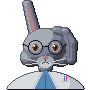
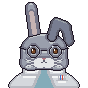
Intro: portrety od nowa w stylu pixelartowych królików, czyste obrysy
- Portrety z masek: każda część wygładzona osobno, lustro względem osi, płaskie pasma,
  jednolity obrys 1 px (także między uszami, głową i tułowiem); głowa siedzi na ramionach
- Maciej: drugie ucho złamane (wstaje i opada na bok), okulary jako okręgi 1 px
- Obserwatorium i postacie od tyłu: sylwetka wygładzona przed obrysem (bez ząbków)

Claude-Session: https://claude.ai/code/session_01AApWJ5vAAocyN6ZrWVUcqc

diff --git a/tools/art/portraits.js b/tools/art/portraits.js
@@ -1,87 +1,147 @@
-// Portrety do okienek dialogu (88x88, przezroczyste tło), rysowane od zera pixel artem.
-// Zdjęcia autora służą tylko za wzór: kolory, proporcje (duża okrągła głowa, puszyste policzki, jasna obwódka oka).
-// Maciej: srebrzysty, lewe ucho stoi, prawe opada wzdłuż policzka, brązowe oczy, okrągłe okulary, biały kitel.
-// Jania (dziecko, mniejsza w kadrze): ruda, kremowy pyszczek, oba uszy w górę, dwa siekacze, dżinsowe ogrodniczki.
+// Portrety do okienek dialogu (88x88, przezroczyste tło), pixel art od zera.
+// Zasady z referencji autora (pixelartowe króliki): czysty 1 px ciemny obrys bez ząbków, głowa szeroka i zaokrąglona,
+// policzki rozszerzają ją u dołu, głowa siedzi wprost na ramionach (bez szyi), uszy jak zaokrąglone prostokąty
+// z jaśniejszym środkiem, duże proste oczy z białym odblaskiem, jasny pyszczek, mały nosek, płaskie 2–3 tony na
+// materiał, światło z góry (cieniowanie symetryczne). Kształty z masek (każda część wygładzona osobno),
+// lustrzane względem środka; wyjątki to celowo asymetryczne opadnięte ucho Macieja i długopisy w kieszeni.
 const P = require(process.env.CODIXEL);
 const OUT = process.argv[2] || ".";
-const L = { light: [-0.5, -0.62, 0.6] };  // jedno światło z lewej u góry
-const INK = [24, 20, 32];
-const ramp = (n, o) => P.hueRamp(n, o);
-const S = (b, prims, r, o = {}) => P.solid(b, prims, r, { ...L, ...o });
-const E = P.ell, C = P.cap;
-const fillEll = (b, cx, cy, rx, ry, c) => { for (let y = Math.floor(cy - ry); y <= cy + ry; y++) for (let x = Math.floor(cx - rx); x <= cx + rx; x++) if (((x - cx) / rx) ** 2 + ((y - cy) / ry) ** 2 <= 1) b.pset(x, y, c); };
-const line = (b, ax, ay, bx, by, c) => { const n = Math.max(Math.abs(bx - ax), Math.abs(by - ay)); for (let i = 0; i <= n; i++) b.pset(Math.round(ax + (bx - ax) * i / n), Math.round(ay + (by - ay) * i / n), c); };
+const W = 88, H = 88, CX = 44;           // oś symetrii między pikselem 43 i 44
+const INK = [30, 22, 36];
 
-// oko: obwódka (jasna sierść), tęczówka, źrenica, dwa odblaski
-function eye(b, x, y, iris, ring) {
-  fillEll(b, x, y, 4.2, 4.8, ring);
-  fillEll(b, x, y, 3, 3.6, iris[1]);
-  fillEll(b, x, y + 0.6, 2, 2.6, iris[0]);
-  b.pset(x - 1, y - 2, [250, 246, 238]); b.pset(x - 2, y - 2, [250, 246, 238]); b.pset(x - 1, y - 1, [250, 246, 238]);
-  b.pset(x + 1, y + 2, iris[2]);
+class Canvas {
+  constructor() { this.part = new Array(W * H).fill(null); this.col = new Array(W * H).fill(null); this.parts = {}; }
+  // kształt z funkcji (środki pikseli), maska wygładzona osobno; mirror = lustro względem osi
+  add(name, inside, ramp, o = {}) {
+    let m = new Uint8Array(W * H);
+    for (let y = 0; y < H; y++) for (let x = 0; x < W; x++) {
+      const px = x + 0.5, py = y + 0.5;
+      if (inside(px, py) || (o.mirror && inside(2 * CX - px, py))) m[y * W + x] = 1;
+    }
+    if (!o.raw) m = P.smoothMask(m, W, H);
+    for (let i = 0; i < W * H; i++) if (m[i]) { this.part[i] = name; this.col[i] = null; }
+    this.parts[name] = { ramp, group: o.group || name, flat: o.flat };
+  }
+  set(x, y, c, name = "_") { if (x >= 0 && y >= 0 && x < W && y < H) { this.part[y * W + x] = name; this.col[y * W + x] = c; } }
+  render() {
+    const b = new P.Buf(W, H), at = (x, y) => (x < 0 || y < 0 || x >= W || y >= H ? null : this.part[y * W + x]);
+    const grp = (n) => (n === null ? null : (this.parts[n] || { group: n }).group);
+    for (let y = 0; y < H; y++) for (let x = 0; x < W; x++) {
+      const n = at(x, y); if (n === null) continue;
+      if (this.col[y * W + x]) { b.pset(x, y, this.col[y * W + x]); continue; }
+      const p = this.parts[n], r = p.ramp;
+      let k = 1;  // płaskie pasma: cień u dołu i po bokach (2 px), blask u góry (2 px)
+      if (!p.flat) {
+        const out = (dx, dy) => at(x + dx, y + dy) !== n;
+        if (out(0, 2) || out(0, 1) || out(-2, 0) || out(2, 0)) k = 0;
+        else if ((out(0, -2) || out(0, -1)) && r.length > 2) k = 2;
+      }
+      b.pset(x, y, r[Math.min(k, r.length - 1)]);
+    }
+    // obrys: zewnętrzny 1 px (4-sąsiedztwo) + wewnętrzny między grupami (uszy/głowa/tułów)
+    const ink = new Uint8Array(W * H);
+    for (let y = 0; y < H; y++) for (let x = 0; x < W; x++) {
+      const n = at(x, y), g = grp(n);
+      if (n === null) { if ([[1, 0], [-1, 0], [0, 1], [0, -1]].some(([dx, dy]) => at(x + dx, y + dy) !== null)) ink[y * W + x] = 1; continue; }
+      if ((this.parts[n] || {}).line === false) continue;
+      for (const [dx, dy] of [[0, 1], [1, 0], [-1, 0], [0, -1]]) {
+        const m = at(x + dx, y + dy), gm = grp(m);
+        if (m !== null && gm !== g && this.front(g, gm)) { ink[y * W + x] = 1; break; }
+      }
+    }
+    for (let i = 0; i < W * H; i++) if (ink[i]) b.px[i] = P.col(INK);
+    return b;
+  }
+}
+// kolejność warstw grup: obrys wewnętrzny rysuje część z przodu
+const ORDER = ["body", "ears", "head", "lop"];
+Canvas.prototype.front = function (a, b) { return ORDER.indexOf(a) > ORDER.indexOf(b) && ORDER.indexOf(b) >= 0; };
+
+const ell = (cx, cy, rx, ry) => (x, y) => ((x - cx) / rx) ** 2 + ((y - cy) / ry) ** 2 <= 1;
+const sup = (cx, cy, rx, ry, e = 2.6) => (x, y) => Math.abs((x - cx) / rx) ** e + Math.abs((y - cy) / ry) ** e <= 1; // zaokrąglony prostokąt
+const cap = (ax, ay, bx, by, r) => (x, y) => { const vx = bx - ax, vy = by - ay, t = Math.max(0, Math.min(1, ((x - ax) * vx + (y - ay) * vy) / (vx * vx + vy * vy))); return (x - ax - t * vx) ** 2 + (y - ay - t * vy) ** 2 <= r * r; };
+const or = (...f) => (x, y) => f.some((g) => g(x, y));
+const and = (...f) => (x, y) => f.every((g) => g(x, y));
+const ramp = (n, o) => P.hueRamp(n, o);
+
+// oko: ciemny owal z białym odblaskiem (lustrzane pary rysuje wywołujący)
+function eye(c, ex, ey, w, h, dark, iris) {
+  for (let y = 0; y < h; y++) for (let x = 0; x < w; x++) {
+    const corner = (x === 0 || x === w - 1) && (y === 0 || y === h - 1);
+    if (!corner) c.set(ex + x, ey + y, iris && y > 0 && y < h - 1 && x > 0 && x < w - 1 && y >= h / 2 - 1 ? iris : dark);
+  }
+  c.set(ex + 1, ey + 1, [255, 252, 244]); c.set(ex + 1, ey + 2, [255, 252, 244]);
+}
+const mir = (x) => 2 * CX - 1 - x;
+// okrąg 1 px (algorytm punktu środkowego): czysta obręcz bez podwójnych pikseli
+function ring(c, cx, cy, r, col) {
+  let x = r, y = 0, e = 1 - r;
+  while (x >= y) {
+    for (const [a, b] of [[x, y], [y, x], [-y, x], [-x, y], [-x, -y], [-y, -x], [y, -x], [x, -y]]) c.set(cx + a, cy + b, col);
+    y++; if (e < 0) e += 2 * y + 1; else { x--; e += 2 * (y - x) + 1; }
+  }
 }
 
 function maciej() {
-  const b = new P.Buf(88, 88);
-  const fur = ramp(5, { hue: 224, shift: 26, sat: 0.1, light: [0.28, 0.8] });
-  const coat = ramp(4, { hue: 212, shift: 18, sat: 0.12, light: [0.66, 0.96] });
-  const shirt = ramp(3, { hue: 208, shift: 18, sat: 0.4, light: [0.4, 0.64] });
-  const inner = ramp(3, { hue: 350, shift: 16, sat: 0.18, light: [0.5, 0.7] });
-  const iris = [[46, 24, 16], [118, 70, 38], [170, 112, 64]];
-  S(b, [E(44, 66, 7, 5)], fur);                                               // krótka szyja
-  S(b, [E(44, 98, 42, 28)], coat);                                            // kitel: szerokie ramiona tuż pod głową
-  for (let y = 70; y < 88; y++) { const d = (y - 70) >> 1; for (let x = 44 - d - 2; x <= 44 + d + 2; x++) b.pset(x, y, shirt[1]); }
-  for (let y = 70; y < 88; y++) { const d = (y - 70) >> 1; b.pset(42 - d - 2, y, coat[1]); b.pset(46 + d + 2, y, coat[1]); } // klapy
-  for (let y = 74; y < 88; y++) b.pset(44, y, shirt[0]);                        // guziki koszuli w linii
-  for (let x = 60; x < 68; x++) b.pset(x, 80, coat[1]);                         // kieszeń na piersi
-  for (let y = 75; y < 80; y++) { b.pset(63, y, [70, 110, 200]); b.pset(65, y, [210, 70, 60]); } // długopisy
-  S(b, [C(33, 30, 26, 2, 5.6, 4.4)], fur);                                    // ucho stoi
-  S(b, [C(32.6, 28, 26.6, 6, 2.6, 2)], inner);
-  S(b, [E(44, 46, 22, 19), E(29, 56, 10, 8.5), E(59, 56, 10, 8.5)], fur);     // głowa z puszystymi policzkami
-  S(b, [C(54, 29, 64, 31, 3.6, 4.6), C(64, 31, 70, 42, 4.6, 5.4), C(70, 42, 70, 58, 5.4, 4.6)], fur, { dark: 0.85 }); // ucho opada wzdłuż policzka
-  line(b, 59, 30, 66, 34, fur[1]); line(b, 66, 34, 68, 43, fur[1]); line(b, 68, 43, 68, 56, fur[1]); // fałda ucha
-  fillEll(b, 44, 60, 9, 6, fur[3]);                                           // jaśniejszy pyszczek
-  fillEll(b, 44, 63, 6, 3.4, fur[4]);
-  eye(b, 34, 46, iris, fur[3]); eye(b, 54, 46, iris, fur[3]);
-  for (const [x, y] of [[34, 46], [54, 46]])                                  // okrągłe okulary
-    for (let a = 0; a < 80; a++) b.pset(Math.round(x + Math.cos(a / 80 * 6.283) * 7), Math.round(y + Math.sin(a / 80 * 6.283) * 7), INK);
-  line(b, 41, 45, 47, 45, INK);                                               // mostek
-  line(b, 27, 45, 22, 43, INK); line(b, 61, 45, 65, 43, INK);                 // zauszniki
-  b.pset(31, 41, [236, 244, 255]); b.pset(51, 41, [236, 244, 255]);            // błysk na szkle
-  fillEll(b, 44, 56, 2.6, 1.6, [168, 120, 130]); b.pset(43, 55, [206, 160, 168]); // nos
-  line(b, 44, 58, 44, 60, fur[0]); line(b, 44, 60, 41, 62, fur[0]); line(b, 44, 60, 47, 62, fur[0]); // pyszczek Y
-  for (const s of [-1, 1]) { line(b, 44 + s * 8, 60, 44 + s * 20, 57, fur[4]); line(b, 44 + s * 8, 62, 44 + s * 20, 63, fur[4]); } // wąsy
-  return P.selout(b, fur[1], INK);
+  const c = new Canvas();
+  const fur = ramp(3, { hue: 224, shift: 22, sat: 0.1, light: [0.5, 0.78] });
+  const furD = ramp(3, { hue: 228, shift: 20, sat: 0.1, light: [0.4, 0.64] });
+  const light = ramp(2, { hue: 220, shift: 12, sat: 0.08, light: [0.8, 0.9] });
+  const coat = ramp(3, { hue: 212, shift: 16, sat: 0.1, light: [0.74, 0.96] });
+  const shirt = ramp(2, { hue: 208, shift: 14, sat: 0.42, light: [0.46, 0.62] });
+  const pinkE = ramp(2, { hue: 352, shift: 10, sat: 0.22, light: [0.62, 0.74] });
+  c.add("coat", sup(CX, 97, 38, 28, 2.2), coat, { group: "body" });
+  c.add("collar", (x, y) => y > 67 && y < 76 && Math.abs(x - CX) < 21, coat, { group: "body", raw: true }); // ramiona tuż pod policzkami
+  c.add("shirt", (x, y) => y > 70 && Math.abs(x - CX) < (y - 70) * 0.45 + 2.5, shirt, { group: "body", flat: true, raw: true });
+  c.add("earL", cap(35, 36, 31, 8, 5.5), fur, { group: "ears" });
+  c.add("earLi", cap(34.6, 33, 31.6, 13, 2.4), pinkE, { group: "ears", flat: true });
+  c.add("head", or(sup(CX, 52, 23, 18, 2.4), ell(31, 62, 11, 9), ell(57, 62, 11, 9)), fur, { group: "head" });
+  c.add("muzzle", or(ell(40, 63, 6.5, 5.2), ell(48, 63, 6.5, 5.2)), light, { group: "head", flat: true });
+  c.add("lop", or(cap(52, 37, 56, 23, 5), cap(56, 23, 66, 27, 5), cap(66, 27, 69, 41, 4.6)), furD, { group: "lop" }); // drugie ucho złamane: wstaje i opada na bok
+  // oczy (brązowe), okulary okrągłe, nos, pyszczek, wąsy
+  for (const ex of [31, 53]) eye(c, ex, 48, 5, 6, [44, 24, 18], [124, 74, 40]);  // środek oka = środek szkła
+  for (const ocx of [33, 55]) ring(c, ocx, 51, 6, INK);                     // okrągłe okulary, obręcz 1 px
+  for (let x = 41; x <= 46; x++) c.set(x, 50, INK);                          // mostek
+  for (let x = 20; x < 26; x++) c.set(x, 49 - Math.floor((26 - x) / 3), INK); // zauszniki
+  for (let x = 62; x < 68; x++) c.set(x, 49 - Math.floor((x - 62) / 3), INK);
+  c.set(30, 46, [232, 240, 255]); c.set(52, 46, [232, 240, 255]);           // błysk na szkle
+  for (const [x, y] of [[42, 58], [43, 58], [44, 58], [45, 58], [43, 59], [44, 59]]) c.set(x, y, [176, 118, 128]); // nos
+  for (const [x, y] of [[43, 60], [44, 60], [43, 61], [44, 61], [42, 62], [41, 62], [45, 62], [46, 62]]) c.set(x, y, furD[0]); // pyszczek
+  for (const s of [0, 1]) for (let k = 0; k < 9; k++) {                     // wąsy, lustrzanie
+    const x = 34 - k, y1 = 61 - Math.floor(k / 4), y2 = 64 + Math.floor(k / 4);
+    c.set(s ? mir(x) : x, y1, light[1]); c.set(s ? mir(x) : x, y2, light[1]);
+  }
+  for (let y = 71; y < 88; y++) { const d = Math.floor((y - 71) * 0.45) + 3; c.set(CX - 1 - d, y, coat[0]); c.set(CX + d, y, coat[0]); } // brzegi klap
+  for (let x = 58; x < 66; x++) c.set(x, 80, coat[0]);                      // kieszeń i długopisy
+  for (let y = 75; y < 80; y++) { c.set(60, y, [70, 110, 200]); c.set(62, y, [210, 70, 60]); }
+  return c.render();
 }
 
 function jania() {
-  const b = new P.Buf(88, 88);
-  const fur = ramp(5, { hue: 24, shift: 28, sat: 0.72, light: [0.34, 0.74] });
-  const cream = ramp(3, { hue: 34, shift: 16, sat: 0.5, light: [0.7, 0.9] });
-  const denim = ramp(4, { hue: 214, shift: 26, sat: 0.5, light: [0.28, 0.6] });
-  const pink = ramp(3, { hue: 350, shift: 12, sat: 0.55, light: [0.58, 0.82] });
-  const iris = [[30, 18, 16], [64, 36, 28], [120, 80, 60]];
-  S(b, [E(44, 100, 32, 26), E(44, 69, 6, 4)], fur);                           // ramiona tuż pod głową, krótka szyja
-  S(b, [E(44, 79, 8, 5)], cream);                                             // kremowa pierś
-  for (let y = 80; y < 88; y++) for (let x = 31; x <= 57; x++) b.pset(x, y, y === 80 ? denim[3] : denim[2]); // śliniak
-  for (let y = 83; y < 88; y++) for (let x = 39; x <= 49; x++) b.pset(x, y, denim[1]);                   // kieszonka
-  for (const x of [31, 32, 56, 57]) for (let y = 76; y < 81; y++) b.pset(x, y, denim[1]);                // szelki
-  for (const x of [32, 56]) { b.pset(x, 82, [255, 214, 92]); b.pset(x - 1 + (x > 44 ? 1 : 0), 82, [255, 214, 92]); }
-  S(b, [C(36, 34, 31, 10, 4.6, 3.8), C(52, 34, 57, 10, 4.6, 3.8)], fur);      // uszy (mniejsza głowa: dziecko)
-  S(b, [C(35.6, 32, 31.6, 13, 2.2, 1.6), C(52.4, 32, 56.4, 13, 2.2, 1.6)], pink);
-  S(b, [E(44, 50, 18, 16), E(33, 58, 8, 6.5), E(55, 58, 8, 6.5)], fur);       // głowa, policzki
-  fillEll(b, 44, 61, 8, 5, cream[1]);                                         // pyszczek
-  fillEll(b, 44, 63, 5.5, 3, cream[2]);
-  eye(b, 36, 50, iris, cream[0]); eye(b, 52, 50, iris, cream[0]);
-  fillEll(b, 29, 57, 2.4, 1.4, pink[1]); fillEll(b, 59, 57, 2.4, 1.4, pink[1]); // rumieńce
-  fillEll(b, 44, 58, 2.2, 1.4, pink[0]); b.pset(43, 57, pink[2]);             // nosek
-  line(b, 44, 60, 44, 61, fur[0]); line(b, 44, 61, 42, 62, fur[0]); line(b, 44, 61, 46, 62, fur[0]);
-  for (const x of [42, 43, 45, 46]) for (let y = 63; y < 66; y++) b.pset(x, y, y === 65 ? [220, 212, 200] : [252, 248, 240]); // dwa siekacze
-  for (let y = 63; y < 66; y++) b.pset(44, y, [196, 186, 176]);
-  for (const s of [-1, 1]) line(b, 44 + s * 7, 61, 44 + s * 17, 59, cream[2]);  // wąsiki
-  return P.selout(b, fur[1], INK);
+  const c = new Canvas();
+  const fur = ramp(3, { hue: 24, shift: 26, sat: 0.72, light: [0.44, 0.66] });
+  const cream = ramp(2, { hue: 34, shift: 14, sat: 0.5, light: [0.78, 0.9] });
+  const denim = ramp(3, { hue: 214, shift: 22, sat: 0.48, light: [0.34, 0.58] });
+  const pink = ramp(2, { hue: 352, shift: 10, sat: 0.6, light: [0.66, 0.8] });
+  c.add("body", sup(CX, 100, 28, 26, 2.2), fur, { group: "body" });
+  c.add("chest", ell(CX, 80, 9, 7), cream, { group: "body", flat: true });
+  c.add("bib", (x, y) => y >= 79 && Math.abs(x - CX) <= 13, denim, { group: "body", raw: true });
+  c.add("straps", (x, y) => y >= 72 && y < 80 && Math.abs(Math.abs(x - CX) - 12) <= 1, denim, { group: "body", flat: true, raw: true });
+  c.add("ears", cap(37.5, 46, 34.5, 18, 6), fur, { group: "ears", mirror: true });
+  c.add("earsi", cap(37, 42, 34.8, 24, 2), pink, { group: "ears", flat: true, mirror: true });
+  c.add("head", or(sup(CX, 59, 19, 15, 2.4), ell(33, 66, 9, 7), ell(55, 66, 9, 7)), fur, { group: "head" });
+  c.add("muzzle", or(ell(40, 68, 5.5, 4.4)), cream, { group: "head", flat: true, mirror: true });
+  for (const ex of [33, 51]) eye(c, ex, 56, 5, 7, [34, 20, 18], null);
+  for (const [x, y] of [[29, 64], [30, 64], [31, 64]]) { c.set(x, y, pink[0]); c.set(mir(x), y, pink[0]); } // rumieńce
+  for (const [x, y] of [[42, 64], [43, 64], [42, 65], [43, 65]]) { c.set(x, y, pink[0]); c.set(mir(x), y, pink[0]); } // nosek
+  for (const [x, y] of [[43, 66], [42, 67], [41, 67]]) { c.set(x, y, fur[0]); c.set(mir(x), y, fur[0]); } // pyszczek
+  for (const x of [41, 42]) for (let y = 68; y < 71; y++) { c.set(x, y, y === 70 ? [222, 214, 202] : [252, 248, 240]); c.set(mir(x), y, y === 70 ? [222, 214, 202] : [252, 248, 240]); } // dwa siekacze
+  for (let y = 68; y < 71; y++) { c.set(43, y, [196, 184, 172]); c.set(44, y, [196, 184, 172]); }
+  for (const x of [31, 32, 55, 56]) c.set(x, 81, [255, 214, 92]);            // guziki
+  return c.render();
 }
 
 const M = maciej(), J = jania();
 P.save(J, OUT + "/portrait_jania.png"); P.save(M, OUT + "/portrait_maciej.png");
 P.save(P.sheet([{ buf: J, scale: 4, label: "JANIA" }, { buf: M, scale: 4, label: "MACIEJ" }, { buf: J, scale: 1 }, { buf: M, scale: 1 }]), __dirname + "/_portraits.png");
+console.log("edge J", JSON.stringify(P.edgeCheck(J)).slice(0, 120), "M", JSON.stringify(P.edgeCheck(M)).slice(0, 120));

diff --git a/tools/art/cutscene.js b/tools/art/cutscene.js
@@ -19,9 +19,9 @@ function maciej(f) {  // proporcje jak Jania od tyłu (duża głowa, małe ciał
   S([P.ell(20, 30.5 + bob, 6, 2.4)], COAT, { dark: 0.9 });                                   // kołnierz
   S([P.cap(16, 16 + bob, 15.2, 6 + bob, 2.5, 2.8)], FUR);                                  // ucho stoi
   S([P.ell(20, 22 + bob, 9.5, 7.5), P.ell(13.5, 24.5 + bob, 3.6, 3), P.ell(26.5, 24.5 + bob, 3.6, 3)], FUR, { ambient: 0.5 });
-  S([P.cap(24, 16 + bob, 29, 19 + bob, 2.4, 2.7), P.cap(29, 19 + bob, 30.5, 29 + bob, 2.7, 2.2)], FUR, { dark: 0.9 }); // ucho opada
+  S([P.cap(24, 16 + bob, 26, 7 + bob, 2.4, 2.5), P.cap(26, 7 + bob, 31, 9 + bob, 2.5, 2.4), P.cap(31, 9 + bob, 32, 15 + bob, 2.4, 2.1)], FUR, { dark: 0.9 }); // ucho złamane: wstaje i opada na bok
   b.pset(11, 23 + bob, [26, 22, 34]); b.pset(29, 23 + bob, [26, 22, 34]);                    // zauszniki okularów
-  return ink(b);
+  return ink(P.smoothEdge(b));
 }
 const jbb = P.bounds(jania.frames[16]);
 const jb = (f) => P.crop(jania.frames[16 + (f ? 7 : 0)], jbb.x, jbb.y - 1, jbb.w, jbb.h + 1);  // rząd 2 = tył; 7. kolumna = oddech
@@ -47,7 +47,7 @@ function observatory() {
   for (let y = 50; y < 64; y++) for (let x = 35; x < 46; x++) b.pset(x, y, x === 35 || x === 45 || y === 50 ? steel[1] : steel[2]); // drzwi
   b.pset(43, 57, warm); for (let x = 38; x < 43; x++) b.pset(x, 48, warm);                                   // klamka, lampka nad drzwiami
   for (let x = 32; x < 49; x++) b.pset(x, 63, white[1]);                                                    // schodek
-  return ink(b);
+  return ink(P.smoothEdge(b));  // gładka sylwetka przed obrysem: bez ząbków na kopule i tubusie
 }
 // drzwi balkonowe zamknięte, takie same jak w pokoju (jasne drewno, 4 szybki, ceglasta płycina);
 // od strony balkonu szybki świecą ciepło, bo w mieszkaniu pali się światło
